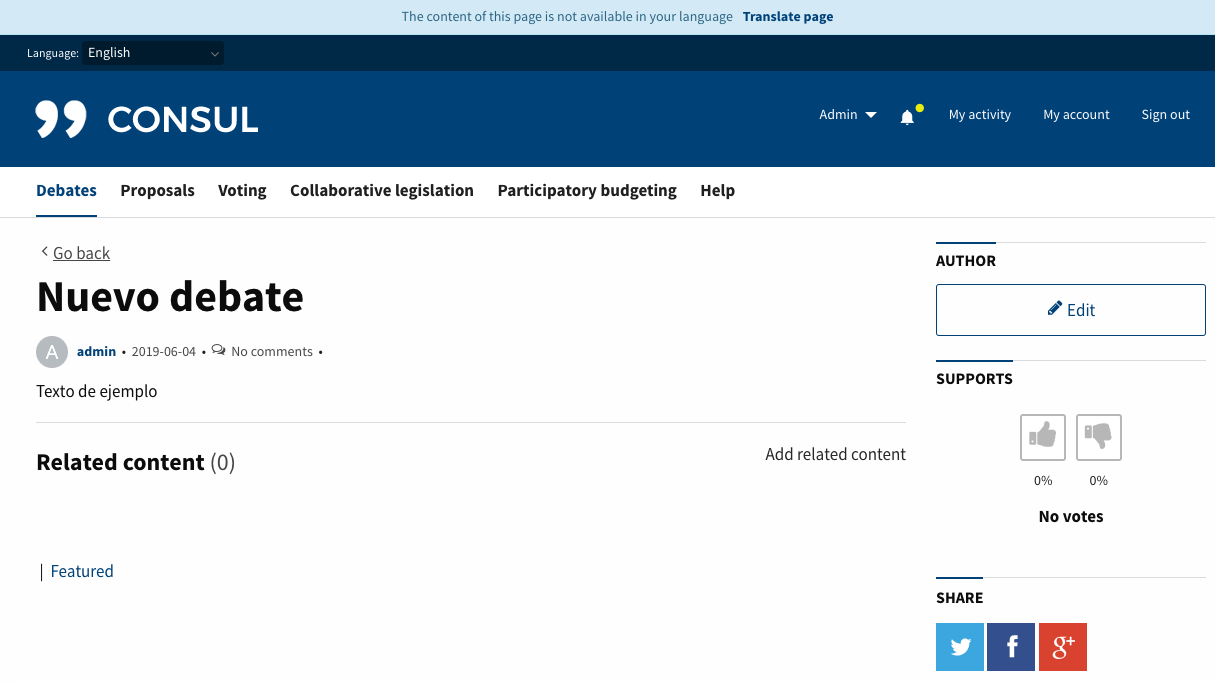
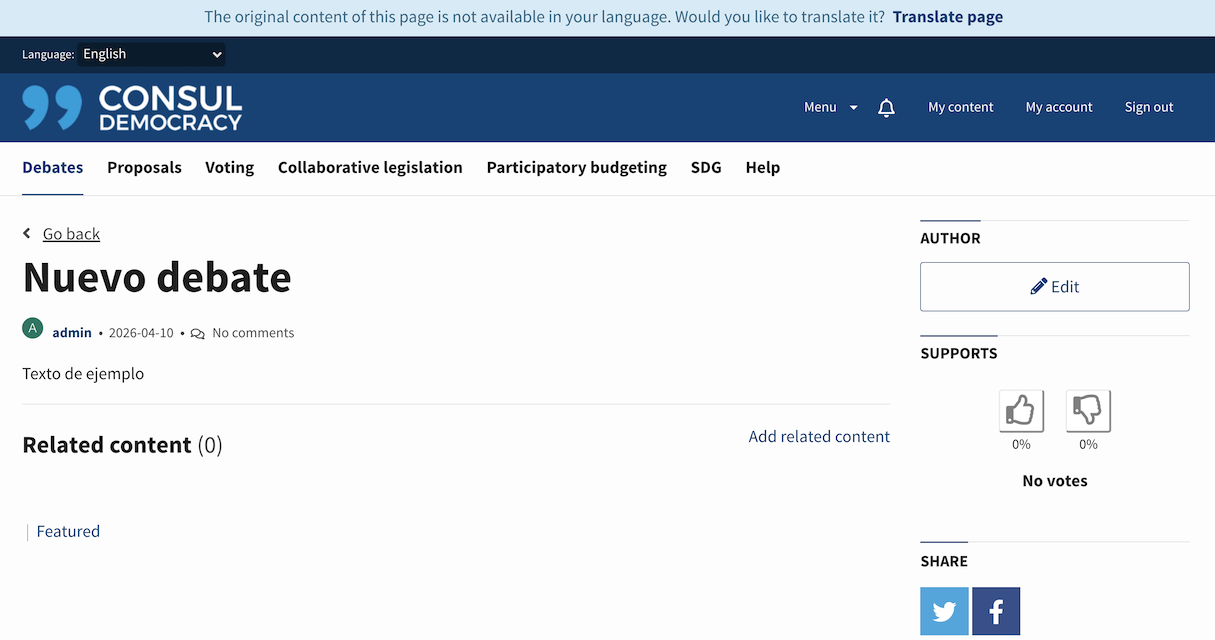
Improve texts for translation button feature

diff --git a/spec/components/layout/remote_translations_button_component_spec.rb b/spec/components/layout/remote_translations_button_component_spec.rb
@@ -19,14 +19,16 @@ describe Layout::RemoteTranslationsButtonComponent do
       I18n.with_locale(:de) { render_inline component }
 
       expect(page).to have_css ".remote-translations-button"
-      expect(page).to have_content "The content of this page is not available in your language"
+      expect(page).to have_content "The original content of this page is not available in your language. " \
+                                   "Would you like to translate it?"
     end
 
     it "displays the text in English with a locale needing parsing" do
       I18n.with_locale(:"zh-CN") { render_inline component }
 
       expect(page).to have_css ".remote-translations-button"
-      expect(page).to have_content "The content of this page is not available in your language"
+      expect(page).to have_content "The original content of this page is not available in your language. " \
+                                   "Would you like to translate it?"
     end
   end
 
@@ -40,14 +42,16 @@ describe Layout::RemoteTranslationsButtonComponent do
       I18n.with_locale(:fr) { render_inline component }
 
       expect(page).to have_css ".remote-translations-button"
-      expect(page).to have_content "El contenido de esta página no está disponible en tu idioma"
+      expect(page).to have_content "El contenido de esta página no está disponible en tu idioma. " \
+                                   "¿Te gustaría traducirlo?"
     end
 
     it "displays the text in Spanish with a locale needing parsing" do
       I18n.with_locale(:"pt-BR") { render_inline component }
 
       expect(page).to have_css ".remote-translations-button"
-      expect(page).to have_content "El contenido de esta página no está disponible en tu idioma"
+      expect(page).to have_content "El contenido de esta página no está disponible en tu idioma. " \
+                                   "¿Te gustaría traducirlo?"
     end
   end
 

diff --git a/spec/shared/system/remotely_translatable.rb b/spec/shared/system/remotely_translatable.rb
@@ -68,8 +68,8 @@ shared_examples "remotely_translatable" do |factory_name, path_name, path_argume
         create(:remote_translation, remote_translatable: resource, locale: :es)
         visit path_in_spanish
 
-        expect(page).to have_content "En un breve periodo de tiempo refrescando la página " \
-                                     "podrá ver todo el contenido en su idioma"
+        expect(page).to have_content "Por favor, espera 5 segundos y actualiza la página " \
+                                     "para que se muestre el contenido traducido."
         expect(page).not_to have_button "Traducir página"
       end
     end
@@ -151,15 +151,15 @@ shared_examples "remotely_translatable" do |factory_name, path_name, path_argume
 
         expect(page).not_to have_button "Traducir página"
         expect(page).to have_content "Se han solicitado correctamente las traducciones."
-        expect(page).to have_content "En un breve periodo de tiempo refrescando la página " \
-                                     "podrá ver todo el contenido en su idioma"
+        expect(page).to have_content "Por favor, espera 5 segundos y actualiza la página " \
+                                     "para que se muestre el contenido traducido."
 
         refresh
 
         expect(page).not_to have_content "Se han solicitado correctamente las traducciones."
         expect(page).not_to have_button "Traducir página"
-        expect(page).to have_content "En un breve periodo de tiempo refrescando la página " \
-                                     "podrá ver todo el contenido en su idioma"
+        expect(page).to have_content "Por favor, espera 5 segundos y actualiza la página " \
+                                     "para que se muestre el contenido traducido."
       end
     end
 

diff --git a/docs/es/features/user_content_translations.md b/docs/es/features/user_content_translations.md
@@ -125,7 +125,7 @@ Para aclarar el funcionamiento, se adjuntan unos pantallazos de cómo interactú
 
 * Cuando un usuario accede a una pantalla en un idioma en el que no están disponibles todas las traducciones, le aparecerá un texto en la parte superior de la pantalla y un botón para poder solicitar la traducción. (**Nota:** *En el caso de acceder con un idioma no soportado por el servicio de traducción no se mostrará ningún texto ni botón de traducción. Ver sección: Idiomas disponibles para la traducción remota*)
 
-  ![Se muestra el texto "El contenido de esta página no esta disponible en tu idioma" y al lado el botón de traducción "Traducir página" en la parte superior de la página](../../img/translations/remote_translations/display-text-and-button-es.png)
+  ![Se muestra el texto "El contenido de esta página no está disponible en tu idioma. ¿Te gustaría traducirlo?" y al lado el botón de traducción "Traducir página" en la parte superior de la página](../../img/translations/remote_translations/display-text-and-button-es.png)
 
 * Una vez el usuario pulsa el botón de `Traducir página` se encolan las traducciones y se recarga la pantalla con un notice (*informando que se han solicitado correctamente las traducciones*) y un texto informativo en la cabecera (*explicando cuándo podrá ver estas traducciones*).
 

diff --git a/docs/en/features/user_content_translations.md b/docs/en/features/user_content_translations.md
@@ -132,7 +132,7 @@ We attach some screenshots of how the application interacts with our users:
 
 * When a user visits a page in a language without translated content, an informative text will appear at the top of the page next to a button to request the translation. (**Note:** *If a user visits a page with a language not supported by the translation service, no text or translation button will be displayed. See section: Available languages for remote translation*)
 
-  ![The text "The content of this page is not available in your language" is displayed next to a "Translate page" button at the top of the page](../../img/translations/remote_translations/display-text-and-button-en.png)
+  ![The text "The original content of this page is not available in your language. Would you like to translate it?" is displayed next to a "Translate page" button at the top of the page](../../img/translations/remote_translations/display-text-and-button-en.png)
 
 * Once the user clicks the `Translate page` button, the translations are enqueued and the page is reloaded with a notice (*informing that the translations have been requested correctly*) and an informative text in the header (*explaining when you will be able to see these translations*).
 
